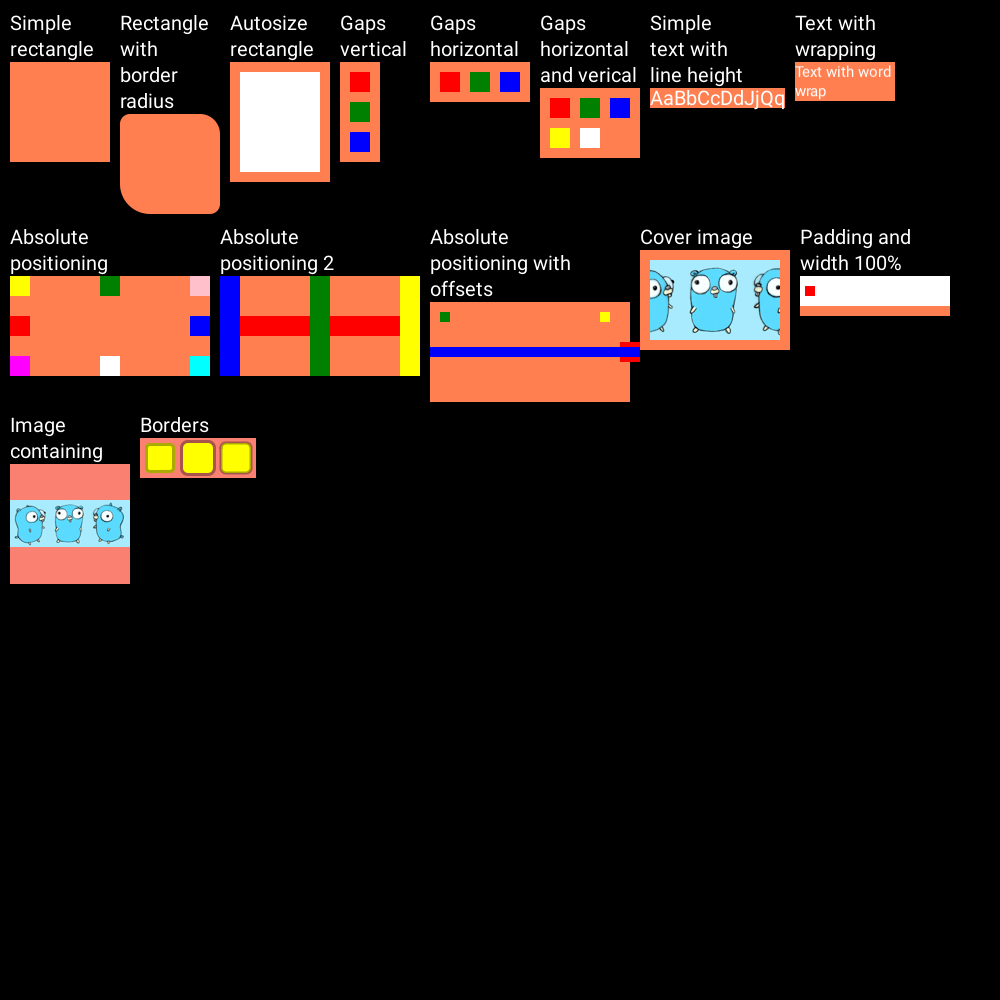
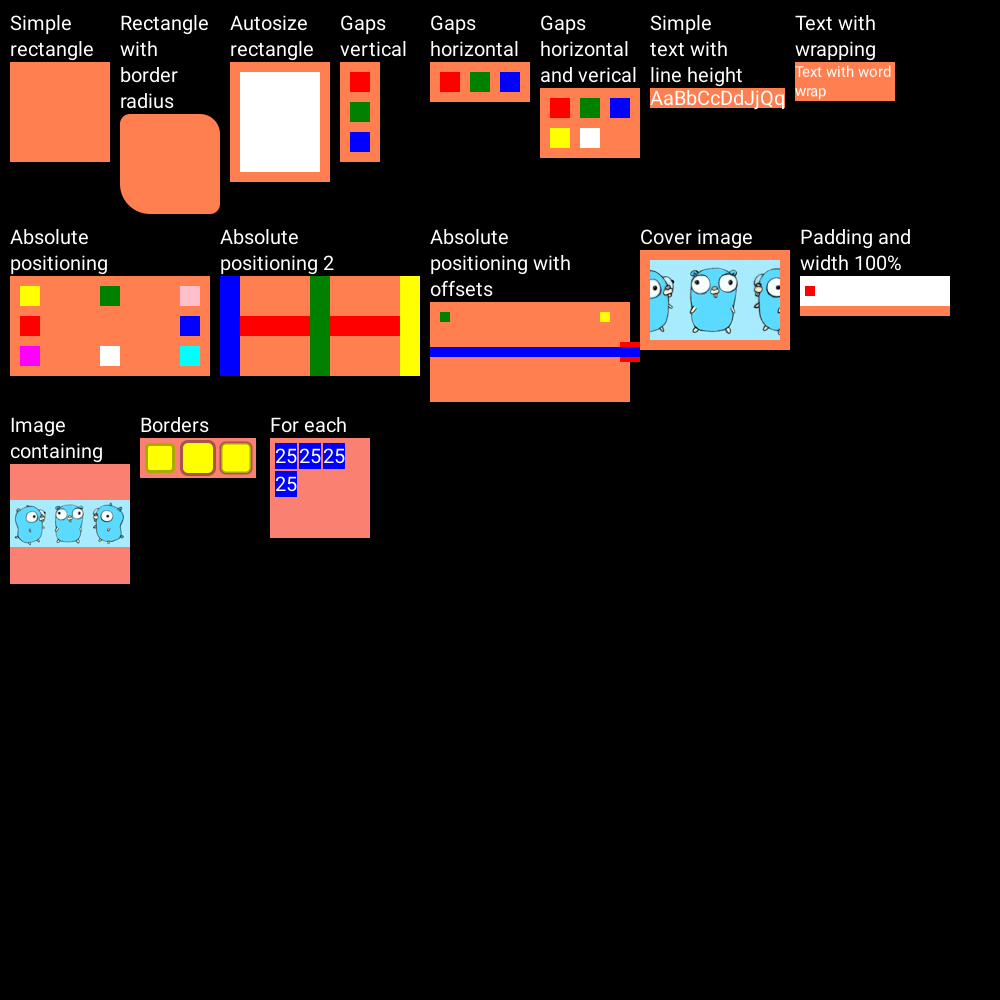
foreach with parents

diff --git a/layout/properties.go b/layout/properties.go
@@ -22,14 +22,14 @@ const (
 	unitHeight
 )
 
-func calculateProperties(n parsing.Node, context layoutPhaseContext, data any) CalculatedProperties {
-	padding, _ := parseNValues(n.Padding, 4, context.size.W, context.size.H, data, false, false)
-	lineHeight, _ := parseNValues(n.LineHeight, 1, context.size.W, context.size.H, data, true, false)
-	borderRadius, _ := parseNValues(n.BorderRadius, 4, context.size.W, context.size.H, data, false, false)
+func calculateProperties(n parsing.Node, context layoutPhaseContext, data any, parentData any) CalculatedProperties {
+	padding, _ := parseNValues(n.Padding, 4, context.size.W, context.size.H, data, parentData, false, false)
+	lineHeight, _ := parseNValues(n.LineHeight, 1, context.size.W, context.size.H, data, parentData, true, false)
+	borderRadius, _ := parseNValues(n.BorderRadius, 4, context.size.W, context.size.H, data, parentData, false, false)
 
-	sz, szErr := parseNValues(n.Size, 2, context.size.W, context.size.H, data, false, false)
-	width, widthErr := parseNValues(n.Width, 1, context.size.W, context.size.H, data, true, false)
-	height, heightErr := parseNValues(n.Height, 1, context.size.W, context.size.H, data, false, false)
+	sz, szErr := parseNValues(n.Size, 2, context.size.W, context.size.H, data, parentData, false, false)
+	width, widthErr := parseNValues(n.Width, 1, context.size.W, context.size.H, data, parentData, true, false)
+	height, heightErr := parseNValues(n.Height, 1, context.size.W, context.size.H, data, parentData, false, false)
 	if szErr != nil {
 		sz[0], sz[1] = -1, -1
 	}
@@ -50,50 +50,50 @@ func calculateProperties(n parsing.Node, context layoutPhaseContext, data any) C
 
 	backgroundColor := color.RGBA{A: 0}
 	if n.BkgColor != "" {
-		backgroundColor, _ = parseColor(utils.ReplaceWithValues(n.BkgColor, data))
+		backgroundColor, _ = parseColor(utils.ReplaceWithValues(n.BkgColor, data, parentData))
 	}
 
 	bkgImageSize := validateStringValue(n.BkgImageSize, []string{"cover", "contain"})
 
 	fontColor := context.props.FontColor // inherited
 	if n.FontColor != "" {
-		fontColor, _ = parseColor(utils.ReplaceWithValues(n.FontColor, data))
+		fontColor, _ = parseColor(utils.ReplaceWithValues(n.FontColor, data, parentData))
 	}
 	if n.Color != "" {
-		fontColor, _ = parseColor(utils.ReplaceWithValues(n.Color, data))
+		fontColor, _ = parseColor(utils.ReplaceWithValues(n.Color, data, parentData))
 	}
 
 	fontDescription := context.props.FontDescription // inherited
 	fontDescription = parseFontString(n.Font, fontDescription, context.size.W, context.size.H, data)
 	if n.FontFamily != "" {
-		fontDescription.Family = utils.ReplaceWithValues(n.FontFamily, data)
+		fontDescription.Family = utils.ReplaceWithValues(n.FontFamily, data, parentData)
 	}
 	if n.FontSize != "" {
-		v, err := parseNValues(n.FontSize, 1, context.size.W, context.size.H, data, true, false)
+		v, err := parseNValues(n.FontSize, 1, context.size.W, context.size.H, data, parentData, true, false)
 		if err == nil {
 			fontDescription.Size = v[0]
 		}
 	}
 	if n.FontWeight != "" {
-		v, err := parseNValues(n.FontWeight, 1, context.size.W, context.size.H, data, true, false)
+		v, err := parseNValues(n.FontWeight, 1, context.size.W, context.size.H, data, parentData, true, false)
 		if err == nil {
 			fontDescription.Weight = int(v[0])
 		}
 	}
 	if n.FontStyle != "" {
-		fontDescription.Style = lo.Ternary(utils.ReplaceWithValues(n.FontStyle, data) == "italic", font.StyleItalic, font.StyleNormal)
+		fontDescription.Style = lo.Ternary(utils.ReplaceWithValues(n.FontStyle, data, parentData) == "italic", font.StyleItalic, font.StyleNormal)
 	}
 
-	childrenDirection := validateStringValue(utils.ReplaceWithValues(n.InnerDirection, data), []string{"column", "row"})
-	childrenJustify := validateStringValue(utils.ReplaceWithValues(n.Justify, data), []string{"start", "center", "end", "space-between", "space-evenly"})
-	childrenColumnAlign := validateStringValue(utils.ReplaceWithValues(n.ChildrenColumnAlign, data), []string{"left", "center", "right"})
-	childrenWrap := validateStringValue(utils.ReplaceWithValues(n.ChildrenWrap, data), []string{"wrap", "none"})
+	childrenDirection := validateStringValue(utils.ReplaceWithValues(n.InnerDirection, data, parentData), []string{"column", "row"})
+	childrenJustify := validateStringValue(utils.ReplaceWithValues(n.Justify, data, parentData), []string{"start", "center", "end", "space-between", "space-evenly"})
+	childrenColumnAlign := validateStringValue(utils.ReplaceWithValues(n.ChildrenColumnAlign, data, parentData), []string{"left", "center", "right"})
+	childrenWrap := validateStringValue(utils.ReplaceWithValues(n.ChildrenWrap, data, parentData), []string{"wrap", "none"})
 
-	innerGap, _ := parseNValues(n.InnerGap, 1, context.size.W, context.size.H, data, true, false)
+	innerGap, _ := parseNValues(n.InnerGap, 1, context.size.W, context.size.H, data, parentData, true, false)
 
-	rotation, _ := parseNValues(n.Rotation, 1, context.size.W, context.size.H, data, true, true)
+	rotation, _ := parseNValues(n.Rotation, 1, context.size.W, context.size.H, data, parentData, true, true)
 
-	border := parseBorderProperty(utils.ReplaceWithValues(n.Border, data))
+	border := parseBorderProperty(utils.ReplaceWithValues(n.Border, data, parentData))
 
 	if n.Text != "" {
 		childrenDirection = "row"
@@ -121,7 +121,7 @@ func calculateProperties(n parsing.Node, context layoutPhaseContext, data any) C
 }
 
 func parseAbsoluteAnchor(value string, data any) (result utils.Anchors) {
-	value = utils.ReplaceWithValues(value, data)
+	value = utils.ReplaceWithValues(value, data, nil)
 	tokens := strings.Fields(value)
 	for _, token := range tokens {
 		tokenParts := strings.Split(token, "/")
@@ -198,8 +198,8 @@ func prepareParsedValue(value float64, isVertical bool, unit int, parentWidth fl
 
 var parseValueRegex = regexp.MustCompile(`(?i)(-?\d+(\.\d+)?)(%|w|h|)`)
 
-func parseNValues(str string, max int, parentWidth float64, parentHeight float64, data any, relativeToWidth bool, allowNegative bool) (utils.FourValues, error) {
-	str = utils.ReplaceWithValues(str, data)
+func parseNValues(str string, max int, parentWidth float64, parentHeight float64, data any, parentData any, relativeToWidth bool, allowNegative bool) (utils.FourValues, error) {
+	str = utils.ReplaceWithValues(str, data, parentData)
 
 	var result utils.FourValues
 
@@ -314,14 +314,14 @@ func parseFontString(prop string, fd fonts.FaceDescription, parentWidth float64,
 		return fd
 	}
 
-	prop = utils.ReplaceWithValues(prop, data)
+	prop = utils.ReplaceWithValues(prop, data, nil)
 	prop = strings.ReplaceAll(prop, ",", " ")
 
 	isSizeSet := false
 
 	tokens := strings.Fields(prop)
 	for _, token := range tokens {
-		v, err := parseNValues(token, 1, parentWidth, parentHeight, data, true, false)
+		v, err := parseNValues(token, 1, parentWidth, parentHeight, data, nil, true, false)
 		if err != nil {
 			if token == "italic" {
 				fd.Style = font.StyleItalic

diff --git a/utils/reflection.go b/utils/reflection.go
@@ -4,16 +4,42 @@ import (
 	"bytes"
 	"fmt"
 	"reflect"
+	"strconv"
 	"strings"
 	"text/template"
 )
 
-func ReplaceWithValues(str string, value interface{}) string {
+func ReplaceWithValues(str string, value any, parentValue any) string {
+	result := replaceWithValues(str, value)
+	result = strings.ReplaceAll(result, "{{{", "{{")
+	result = strings.ReplaceAll(result, "}}}", "}}")
+	return replaceWithValues(result, parentValue)
+}
+
+func replaceWithValues(str string, value any) string {
 	if !strings.Contains(str, "{{") {
 		return str
 	}
 
-	tmpl, err := template.New("template").Parse(str)
+	fm := template.FuncMap{
+		"divide": func(a, b int) int {
+			if b == 0 {
+				return 0
+			}
+			return a / b
+		},
+		"multiply": func(a, b float64) float64 {
+			return a * b
+		},
+		"add": func(a, b float64) float64 {
+			return a + b
+		},
+		"sub": func(a, b float64) float64 {
+			return a - b
+		},
+	}
+
+	tmpl, err := template.New("template").Funcs(fm).Parse(str)
 	if err != nil {
 		return str
 	}
@@ -27,35 +53,35 @@ func ReplaceWithValues(str string, value interface{}) string {
 	return buf.String()
 }
 
-func RunForEach(inputStruct interface{}, arrayFieldName string, cb func(value interface{})) {
+func RunForEach(parentValue interface{}, arrayFieldName string, cb func(value any, iteratorValue any)) {
 	if arrayFieldName == "" {
-		cb(inputStruct)
+		cb(parentValue, nil)
 		return
 	}
 
-	// Use reflection to inspect the type of the inputStruct
-	val := reflect.ValueOf(inputStruct)
+	if num, err := strconv.Atoi(arrayFieldName); err == nil {
+		for i := 0; i < num; i++ {
+			cb(i, parentValue)
+		}
+		return
+	}
 
-	// If the inputStruct is a pointer, we need to dereference it to get the value it points to
+	val := reflect.ValueOf(parentValue)
+
 	if val.Kind() == reflect.Ptr {
 		val = val.Elem()
 	}
 
-	// Ensure that we're dealing with a struct
 	if val.Kind() != reflect.Struct {
 		fmt.Println("The provided interface is not a struct")
 		return
 	}
 
-	// Get the field by name
 	fieldVal := val.FieldByName(arrayFieldName)
 
-	// Check if the field exists and is a slice
 	if fieldVal.IsValid() && fieldVal.Kind() == reflect.Slice {
-		// Iterate over the slice
 		for i := 0; i < fieldVal.Len(); i++ {
-			// Call the callback with each element in the slice
-			cb(fieldVal.Index(i).Interface())
+			cb(fieldVal.Index(i).Interface(), fieldVal.Interface())
 		}
 	} else {
 		fmt.Println("The specified field is not a slice or does not exist")

diff --git a/layout/layout.go b/layout/layout.go
@@ -34,7 +34,7 @@ func Do(n parsing.Node, userData any, drawer draw.Drawer) []Node {
 		},
 		isRoot: true,
 		drawer: drawer,
-	}, userData)
+	}, userData, nil)
 
 	if len(nodes) == 0 {
 		return nil
@@ -50,15 +50,19 @@ func Do(n parsing.Node, userData any, drawer draw.Drawer) []Node {
 	return nodes
 }
 
-func doLayoutNode(n parsing.Node, context layoutPhaseContext, userData any) []Node {
+func doLayoutNode(n parsing.Node, context layoutPhaseContext, value any, parentValue any) []Node {
 	var layoutNodes []Node
 
-	utils.RunForEach(userData, n.ForEach, func(value interface{}) {
+	utils.RunForEach(value, utils.ReplaceWithValues(n.ForEach, value, parentValue), func(currentValue any, iteratorValue any) {
+		if iteratorValue == nil {
+			iteratorValue = parentValue
+		}
+
 		newContext := context
 
 		var ln Node
 
-		ln.Props = calculateProperties(n, context, value)
+		ln.Props = calculateProperties(n, context, currentValue, iteratorValue)
 		newContext.props = ln.Props
 
 		needSetNodeSize := false
@@ -90,7 +94,7 @@ func doLayoutNode(n parsing.Node, context layoutPhaseContext, userData any) []No
 		var whiteSpaceNode Node
 
 		if n.Image != "" {
-			ln.Image = utils.ReplaceWithValues(n.Image, value)
+			ln.Image = utils.ReplaceWithValues(n.Image, currentValue, iteratorValue)
 			if needSetNodeSize {
 				ln.Size = context.size
 			}
@@ -99,7 +103,7 @@ func doLayoutNode(n parsing.Node, context layoutPhaseContext, userData any) []No
 		var isText bool
 		var text string
 		if n.Text != "" {
-			text = utils.ReplaceWithValues(n.Text, value)
+			text = utils.ReplaceWithValues(n.Text, currentValue, iteratorValue)
 			isText = text != ""
 		}
 
@@ -110,7 +114,7 @@ func doLayoutNode(n parsing.Node, context layoutPhaseContext, userData any) []No
 			childNodes, whiteSpaceNode = spitTextToNodes(text, newContext)
 		} else {
 			for _, nc := range n.Inner {
-				childNodes = append(childNodes, doLayoutNode(nc, newContext, value)...)
+				childNodes = append(childNodes, doLayoutNode(nc, newContext, currentValue, iteratorValue)...)
 			}
 		}
 

diff --git a/render/render.go b/render/render.go
@@ -14,6 +14,8 @@ func Do(n layout.Node, drawer draw.Drawer) {
 	drawer.SaveState()
 
 	topPadding := n.Props.Padding[0]
+	rightPadding := n.Props.Padding[1]
+	bottomPadding := n.Props.Padding[2]
 	leftPadding := n.Props.Padding[3]
 
 	if math.Abs(n.Props.Rotation) > 0.001 {
@@ -59,28 +61,24 @@ func Do(n layout.Node, drawer draw.Drawer) {
 		if cn.HasAnchors() {
 			if cn.Props.Anchors.HasLeft() || cn.Props.Anchors.HasRight() {
 				if !cn.Props.Anchors.HasTop() && !cn.Props.Anchors.HasBottom() {
-					absTop = n.Size.H/2 - cn.Size.H/2
+					absTop = (n.Size.H-topPadding-bottomPadding)/2 - cn.Size.H/2
 				}
 				if cn.Props.Anchors.HasRight() {
-					absLeft = n.Size.W - cn.Size.W - cn.Props.Anchors.Right()
+					absLeft = n.Size.W - leftPadding - rightPadding - cn.Size.W - cn.Props.Anchors.Right()
 				} else {
 					absLeft = cn.Props.Anchors.Left()
 				}
 			}
 			if cn.Props.Anchors.HasTop() || cn.Props.Anchors.HasBottom() {
 				if !cn.Props.Anchors.HasLeft() && !cn.Props.Anchors.HasRight() {
-					absLeft = n.Size.W/2 - cn.Size.W/2
+					absLeft = (n.Size.W-leftPadding-rightPadding)/2 - cn.Size.W/2
 				}
 				if cn.Props.Anchors.HasBottom() {
-					absTop = n.Size.H - cn.Size.H - cn.Props.Anchors.Bottom()
+					absTop = n.Size.H - topPadding - bottomPadding - cn.Size.H - cn.Props.Anchors.Bottom()
 				} else {
 					absTop = cn.Props.Anchors.Top()
 				}
 			}
-
-			// absolute positioned should not respect parent padding
-			absTop -= topPadding
-			absLeft -= leftPadding
 		}
 
 		drawer.SetTranslation(absLeft, absTop)

diff --git a/decorender_test.go b/decorender_test.go
@@ -1,8 +1,6 @@
 package decorender
 
 import (
-	"image/png"
-	"os"
 	"testing"
 )
 
@@ -12,12 +10,14 @@ func TestFull(t *testing.T) {
 		t.Errorf("unexpected error while yaml parse: %v", err)
 	}
 
-	image, err := d.Render(nil)
+	data := struct {
+		StringsSlice []string
+	}{
+		StringsSlice: []string{"one", "two", "three", "four"},
+	}
+
+	err = d.RenderToFile(data, "test.png")
 	if err != nil {
 		t.Errorf("unexpected error while rendering: %v", err)
 	}
-
-	file, _ := os.Create("test.png")
-	defer file.Close()
-	_ = png.Encode(file, image)
 }
